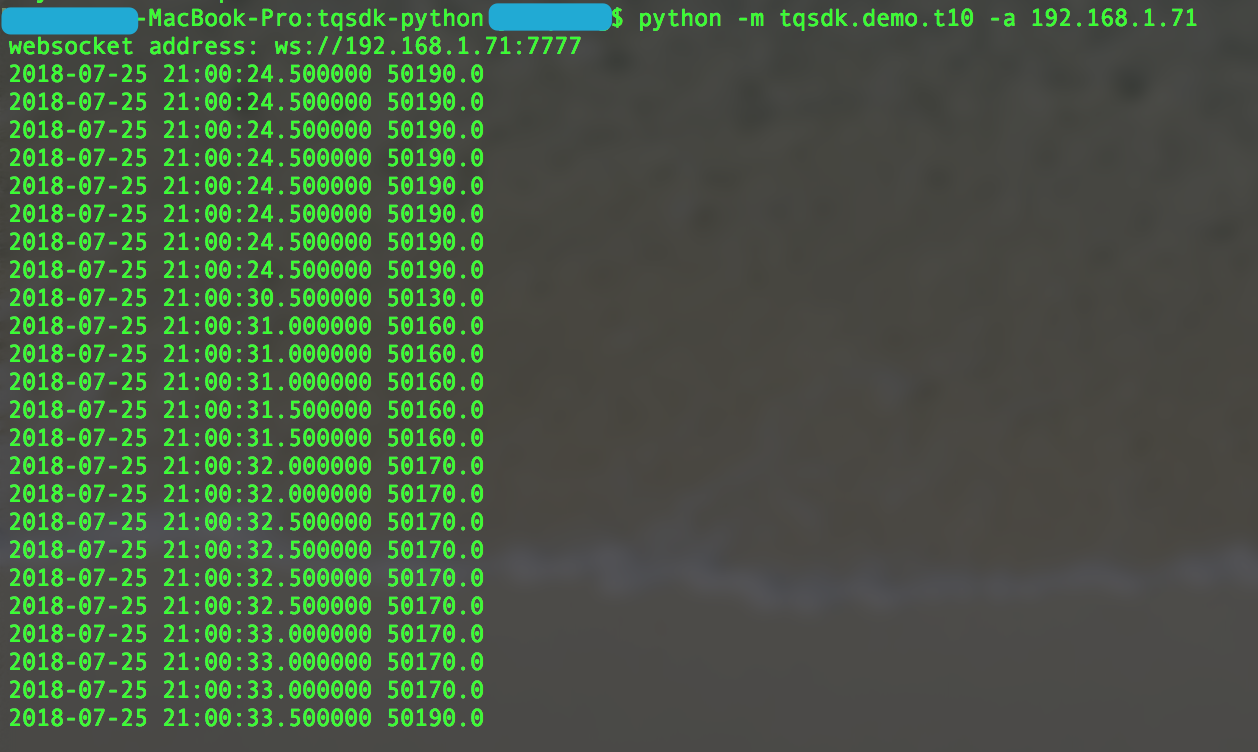
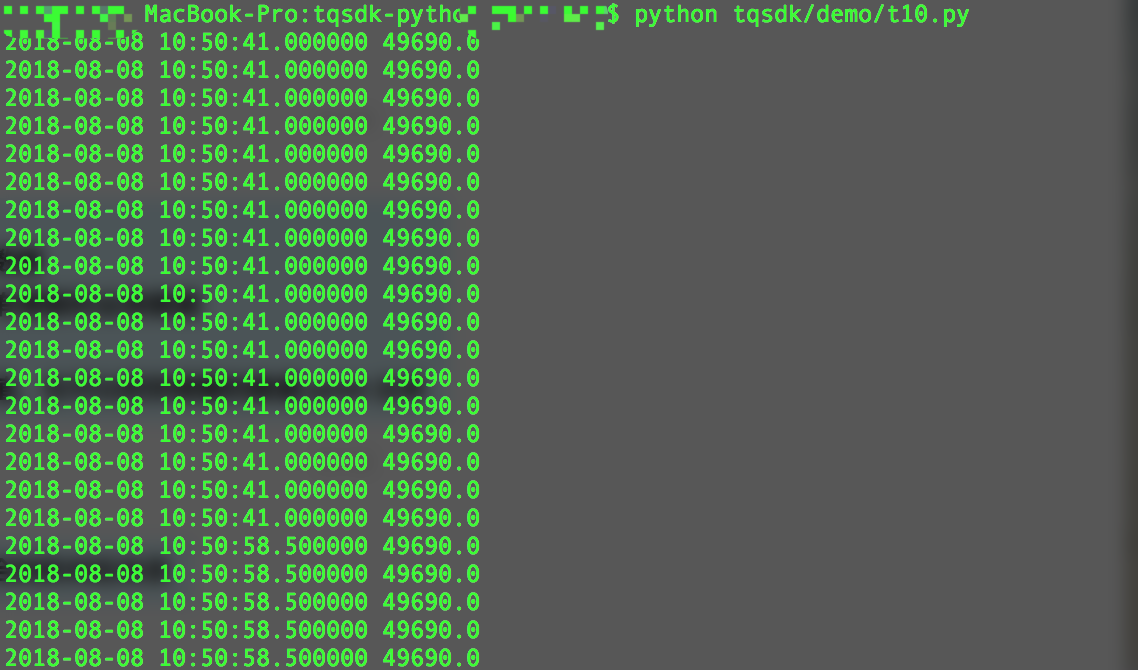
update doc

diff --git a/tqsdk/demo/t71.py b/tqsdk/demo/t71.py
@@ -1,0 +1,34 @@
+#!/usr/bin/env python
+#  -*- coding: utf-8 -*-
+__author__ = 'yanqiong'
+
+from tqsdk.api import TqApi
+from tqsdk.lib import TargetPosTask
+
+'''
+目标持仓模型 - 优先平今
+只有上期所平仓区分 CLOSETODAY (平今) / CLOSE (平昨) 指令，目标持仓模型会优先使用平今指令下单。
+'''
+
+api = TqApi("SIM")
+
+quote = api.get_quote("SHFE.rb1810")
+klines = api.get_kline_serial("SHFE.rb1810", 10)
+
+# 设置总持仓 2 手，今仓 1 手，昨仓 2 - 1 手
+target_pos = TargetPosTask(api, "SHFE.rb1810", init_pos=2, init_pos_today=1)
+length = 3
+
+while True:
+    api.wait_update()
+    if api.is_changing(quote):
+        always_down = True
+        last_klines = klines.close[-length:]
+        # length 个 K 线收盘价连续下跌
+        for i in range(0, length-1):
+            always_down = False if last_klines[i] <= last_klines[i+1] else True
+        if always_down:
+            print(last_klines, "目标持仓: 0")
+            # 平掉 1 手昨仓， 1 手今仓
+            target_pos.set_target_volume(0)
+

diff --git a/tqsdk/demo/t41.py b/tqsdk/demo/t41.py
@@ -1,0 +1,22 @@
+#!/usr/bin/env python
+#  -*- coding: utf-8 -*-
+
+from tqsdk.api import TqApi
+
+api = TqApi("SIM")
+# 获得 rb1810 的持仓引用，
+quote = api.get_quote("SHFE.rb1810")
+# 下单平仓单
+# 只有上期所平仓区分 CLOSETODAY (平今) / CLOSE (平昨)
+order = api.insert_order(symbol="SHFE.rb1810",
+                         direction="BUY",
+                         offset="CLOSETODAY",
+                         limit_price=quote["last_price"],
+                         volume=2)
+
+while True:
+    api.wait_update()
+    if api.is_changing(order, ["status", "volume_orign", "volume_left"]):
+        print("单状态: %s, 已成交: %d 手" % (order["status"], order["volume_orign"] - order["volume_left"]))
+        if order["status"] == 'FINISHED':
+            break

diff --git a/doc/install.rst b/doc/install.rst
@@ -22,8 +22,11 @@ TqSdk 是配合 **天勤终端** 使用的一套开源 Python 量化交易框架
 3. 安装 TqSdk 框架
 -------------------------------------------------
 
-方式一 通过 `pip` 命令安装
+这里介绍两种不同的方式安装 TqSdk
 **************************************************
+
+方式一 通过 `pip` 命令安装
+~~~~~~~~~~~~~~~~~~~~~~~~~~~~~~~~~~~~~~~~~~~~~~~~
 
 命令行运行::
 
@@ -31,7 +34,7 @@ TqSdk 是配合 **天勤终端** 使用的一套开源 Python 量化交易框架
 
 
 方式二 下载源码安装
-**************************************************
+~~~~~~~~~~~~~~~~~~~~~~~~~~~~~~~~~~~~~~~~~~~~~~~~
 
 GitHub 下载项目源码后安装::
 
@@ -42,37 +45,68 @@ GitHub 下载项目源码后安装::
     python setup.py install
 
 
-
 4. 试运行 Demo
 -------------------------------------------------
 
-安装 TqSdk 框架的同时，安装了一批示例文件。我们可以运行其中一个示例文件，确认 TqSdk 框架安装成功。
+安装完 TqSdk 框架，我们可以运行其中一个示例文件，来确认 TqSdk 框架安装成功。
 
-1. 启动天勤终端, 并登录模拟交易。
-2. 运行 demo 程序。
+4.1 首先必须启动天勤终端, 并登录模拟交易。
+**************************************************
+
+4.2 针对以上两种不同安装方式，分别介绍两种不同运行方式：
+**************************************************
+
+方式一 通过 `pip` 命令安装后
+~~~~~~~~~~~~~~~~~~~~~~~~~~~~~~~~~~~~~~~~~~~~~~~~
+
+通过 `pip` 命令安装 TqSdk 框架，同时默认安装了一批示例文件，:ref:`如何找到文件安装位置?<faq-pip-install-files-location>`。
+
+可以直接以系统模块运行：
 
 .. code-block:: bash
 
     $ python -m tqsdk.demo.t10
 
-或者：
-
-.. code-block:: bash
-
-    $ python -m tqsdk.demo.t10 -a 192.168.1.71
-
 
 .. important::
 
-   默认情况下运行 TqSdk 量化策略和 **天勤终端** 在同一台电脑上，如果不在同一台电脑上，请添加 `-a` 参数指定 **天勤终端** 所在的地址。
+    默认情况下运行 TqSdk 量化策略和 **天勤终端** 在同一台电脑上。
 
-这个示例运行结果是在屏幕上输出 `SHFE.cu1812` 的最新行情时间和最新价， 如下图所示：
+    实际情况下，您可以从系统安装目录下拷贝出 demo 文件，修改后以下面一种方式运行。
+
+
+方式二 下载源码安装后
+~~~~~~~~~~~~~~~~~~~~~~~~~~~~~~~~~~~~~~~~~~~~~~~~
+
+安装好 TqSdk 框架后可以在任意目录下运行策略文件:
+
+.. code-block:: bash
+
+    $ python tqsdk/demo/t10.py
+
+.. important::
+
+    默认情况下运行 TqSdk 量化策略和 **天勤终端** 在同一台电脑上。如果不在同一台机器上，可以通过参数指定天勤软件地址。
+
+
+.. code-block:: python
+    :caption: t10.py 指定天勤软件地址
+
+    ...
+    api = TqApi("SIM", "ws://192.168.1.71:7777")
+    ...
+
+
+4.3 示例运行结果
+**************************************************
+
+示例运行结果是在屏幕上输出 `SHFE.cu1812` 的最新行情时间和最新价， 如下图所示：
 
 .. figure:: _static/demo_t10.png
     :width: 500px
     :figwidth: 80%
-    :alt: 示例截图
+    :alt: 示例t10截图
 
-TqSdk 框架已经安装成功，下面从最简单的示例开始，学习如何一步步开发
+TqSdk 框架已经安装成功，下面从最简单的示例开始，学习如何一步步开发。
 
 .. _天勤客户端下载地址: http://www.shinnytech.com/tianqin

diff --git a/doc/tutorial.rst b/doc/tutorial.rst
@@ -1,46 +1,84 @@
+.. _tutorial:
+
 入门教程
 =================================================
 
-运行
+通过运行示例，来学习如何使用 TqSdk。所有的示例都在 demo 的文件下。
+
+文件位置
+-------------------------------------------------
+
++ 通过 `pip` 安装，:ref:`如何找到文件安装位置?<faq-pip-install-files-location>`。
++ 通过 github 安装，示例文件在 `tqsdk-python/tqsdk/demo` 下。
+
+
+如何运行
+-------------------------------------------------
+.. code-block:: bash
+    :caption: 运行文件
+
+    $ python demo/t10.py
+
+.. _tutorial_t10:
 
 基础功能
 -------------------------------------------------
+
 .. literalinclude:: ../tqsdk/demo/t10.py
-   :language: python
-   :linenos:
+    :caption: python demo/t10.py
+    :language: python
+    :linenos:
+
+.. _tutorial_t20:
 
 识别行情更新
 -------------------------------------------------
 .. literalinclude:: ../tqsdk/demo/t20.py
-   :language: python
-   :linenos:
+    :caption: python demo/t20.py
+    :language: python
+    :linenos:
+
+.. _tutorial_t30:
 
 使用K线/Tick数据
 -------------------------------------------------
 .. literalinclude:: ../tqsdk/demo/t30.py
-   :language: python
-   :linenos:
+    :caption: python demo/t30.py
+    :language: python
+    :linenos:
+
+.. _tutorial_t40:
 
 下单
 -------------------------------------------------
 .. literalinclude:: ../tqsdk/demo/t40.py
-   :language: python
-   :linenos:
+    :caption: python demo/t40.py
+    :language: python
+    :linenos:
+
+.. _tutorial_t60:
 
 简单均线策略
 -------------------------------------------------
 .. literalinclude:: ../tqsdk/demo/t60.py
-   :language: python
-   :linenos:
+    :caption: python demo/t60.py
+    :language: python
+    :linenos:
+
+.. _tutorial_t70:
 
 简单均线策略(目标持仓模型)
 -------------------------------------------------
 .. literalinclude:: ../tqsdk/demo/t70.py
-   :language: python
-   :linenos:
+    :caption: python demo/t70.py
+    :language: python
+    :linenos:
+
+.. _tutorial_t80:
 
 价差回归策略
 -------------------------------------------------
 .. literalinclude:: ../tqsdk/demo/t80.py
-   :language: python
-   :linenos:
+    :caption: python demo/t80.py
+    :language: python
+    :linenos:

diff --git a/doc/faq.rst b/doc/faq.rst
@@ -1,0 +1,63 @@
+.. _faq:
+
+常见问题
+====================================================
+
+.. _faq-prepare:
+
+想使用 TqSdk 必须安装天勤终端吗？
+----------------------------------------------------
+
+是的，TqSdk 是配合 **天勤终端** 使用的一套开源 Python 量化交易框架，首先必须安装相应的 **天勤终端** 软件。
+
+* 软件运行环境：Windows 操作系统系统。
+
+* 天勤终端 0.8 以上版本，`天勤客户端下载地址`_ 。
+
+开发交易策略可以在任意的支持 Python 的终端进行。
+
+
+.. _faq-pip-install-files-location:
+
+运行 `pip install tqsdk` 之后，如何找到安装的文件？
+----------------------------------------------------
+
+可以运行以下命令行查看安装包的位置：
+
+.. code-block:: bash
+
+    pip show --files tqsdk
+
+.. figure:: _static/faq1.png
+    :width: 500px
+    :figwidth: 80%
+    :alt: 示例t10截图
+
+安装包位于 `Location` 位置的 `tqsdk/` 目录下，所有源文件都在这里，`tqsdk/demo/` 下是所有示例文件。
+
+参考链接： `pip文档`_
+
+.. _faq-CLOSE-CLOSETODAY:
+
+关于平今平昨怎么处理？
+----------------------------------------------------
+
++ 直接使用 api.insert_order 下单，在 offset 字段上可以直接指定平今平昨（`CLOSETODAY`/`CLOSE`）。
+
+.. literalinclude:: ../tqsdk/demo/t41.py
+    :caption: python demo/t41.py
+    :language: python
+    :linenos:
+
+
++ 使用 TargetPosTask，目标持仓模型下单，通过参数 `init_pos`(全部持仓) `init_pos_today`(今仓) 设置初始持仓。
+
+.. literalinclude:: ../tqsdk/demo/t71.py
+    :caption: python demo/t71.py
+    :language: python
+    :linenos:
+
+
+
+.. _pip文档: https://pip.pypa.io/en/stable/quickstart/
+.. _天勤客户端下载地址: http://www.shinnytech.com/tianqin

diff --git a/doc/index.rst b/doc/index.rst
@@ -12,4 +12,5 @@ TianQin Python SDK
     advanced.rst
     api.rst
     lib.rst
+    faq.rst
 
